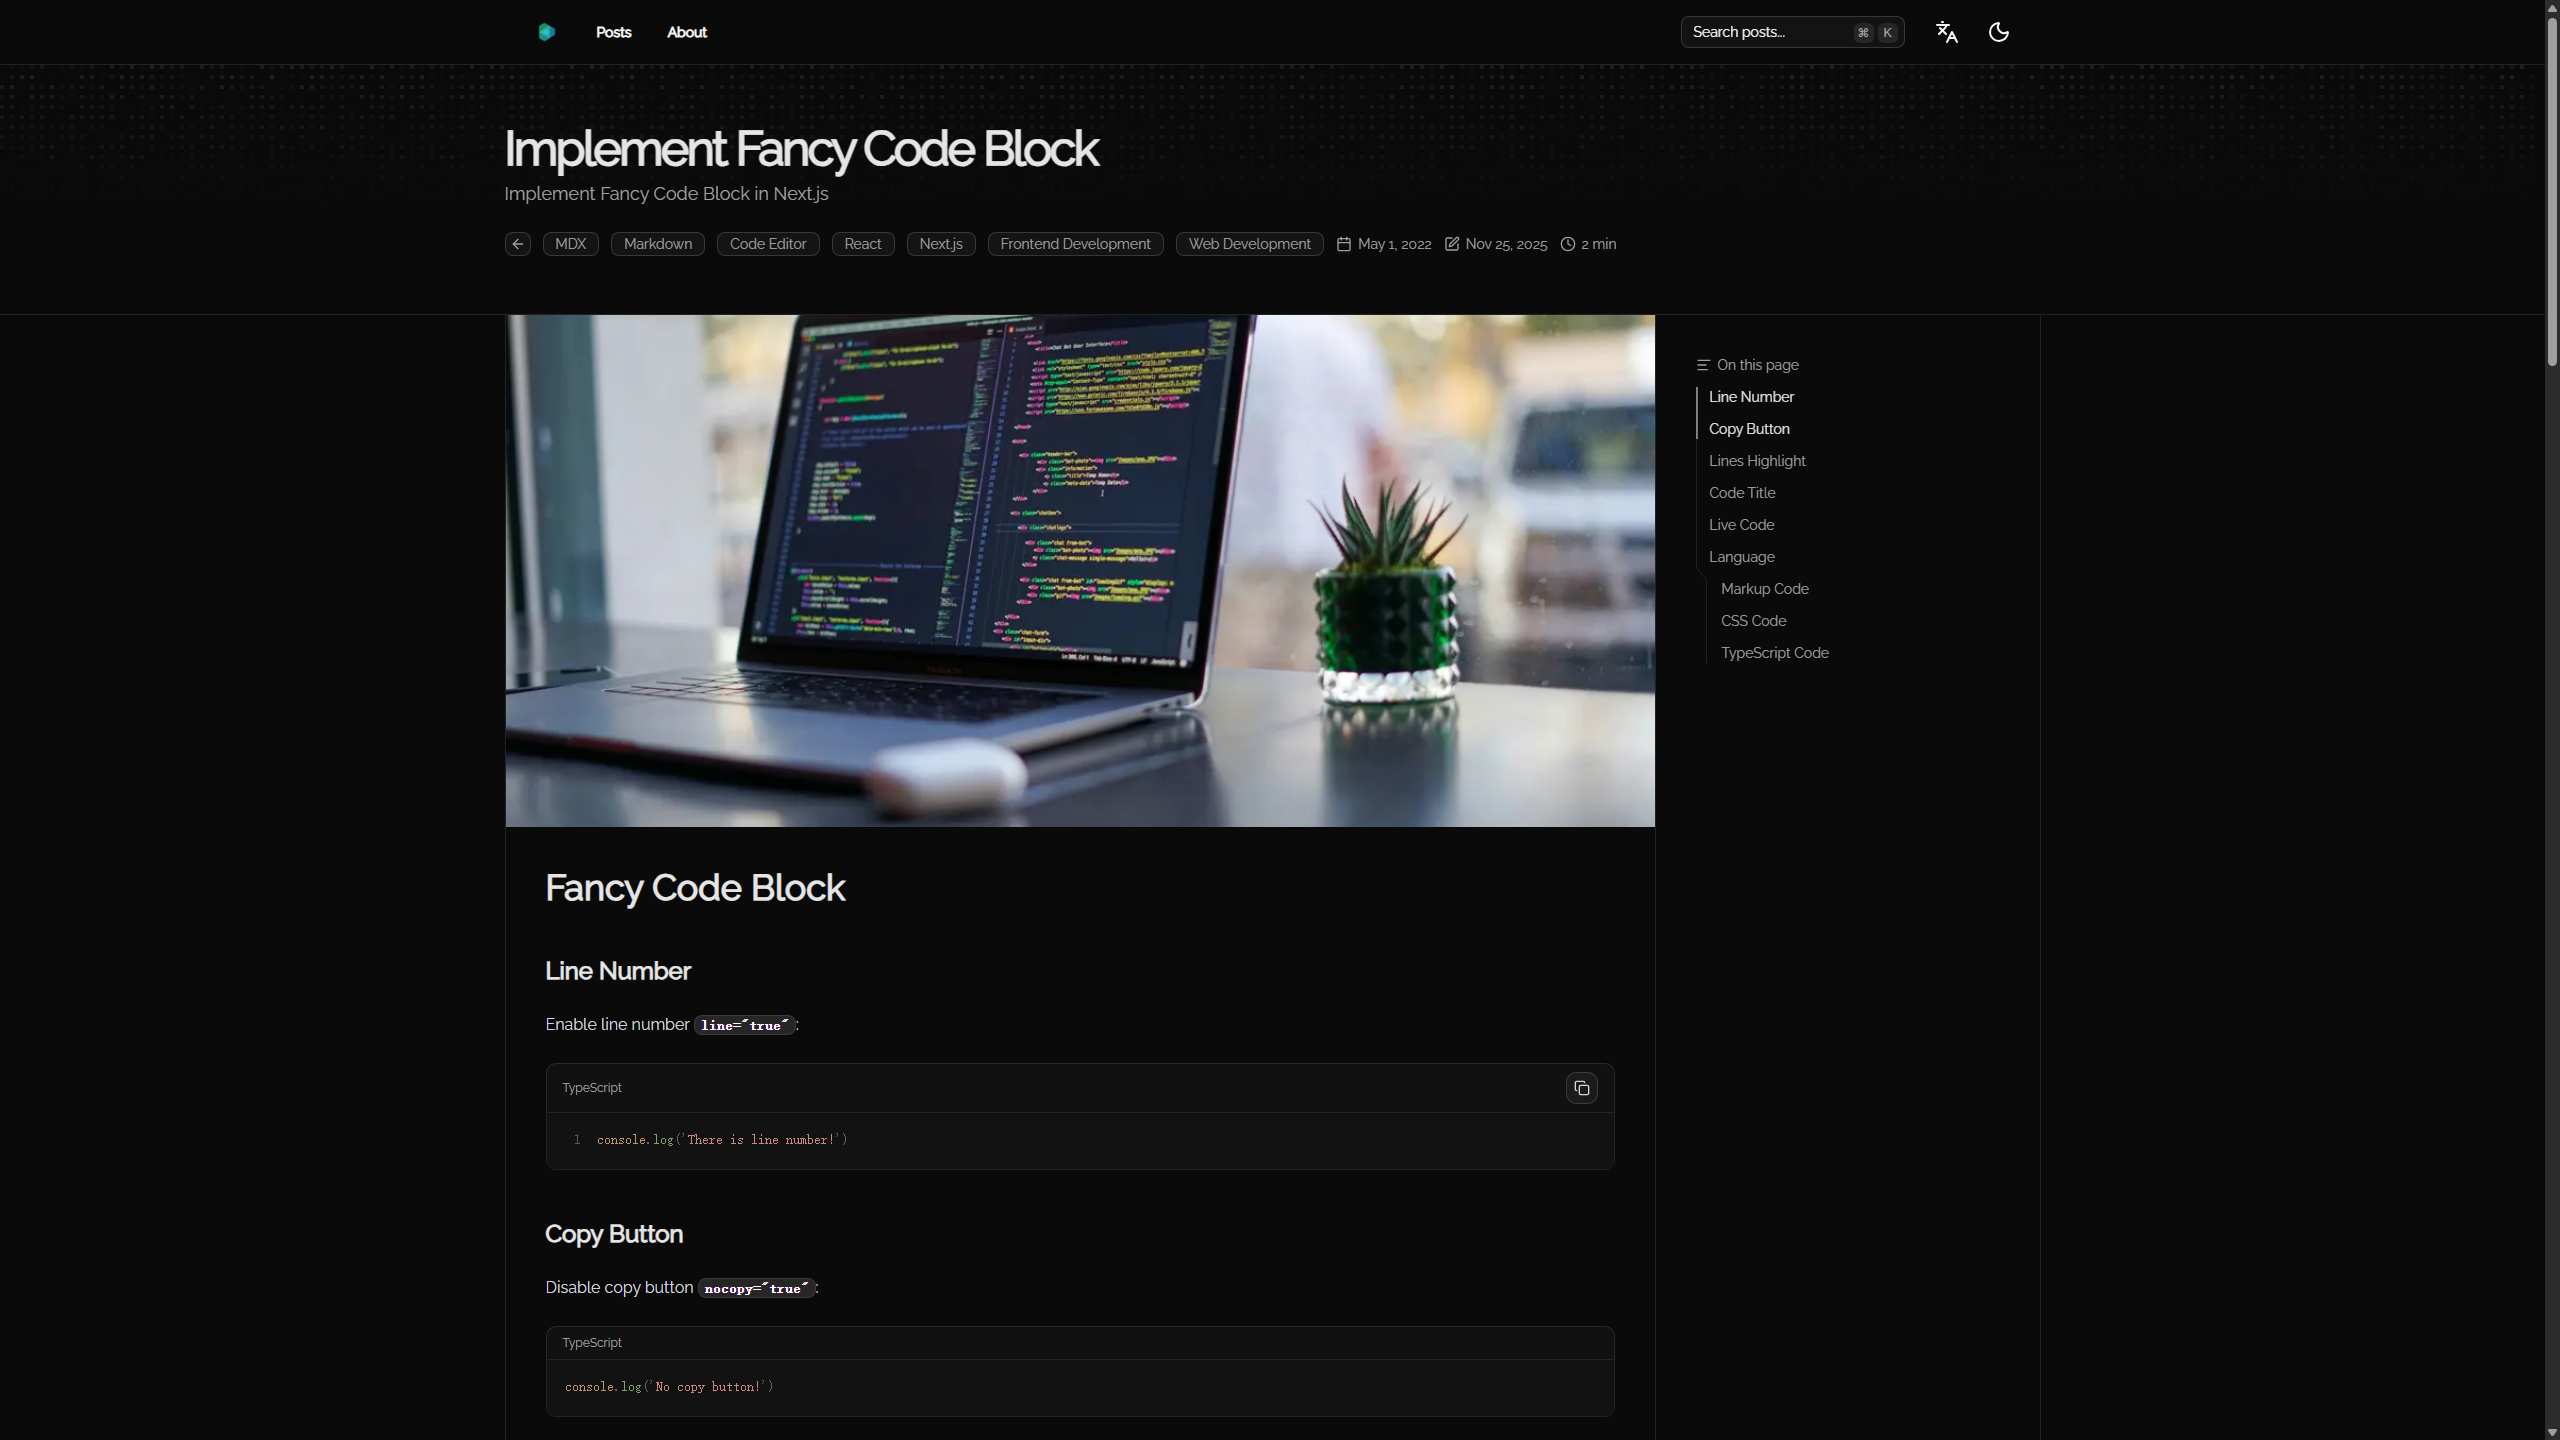
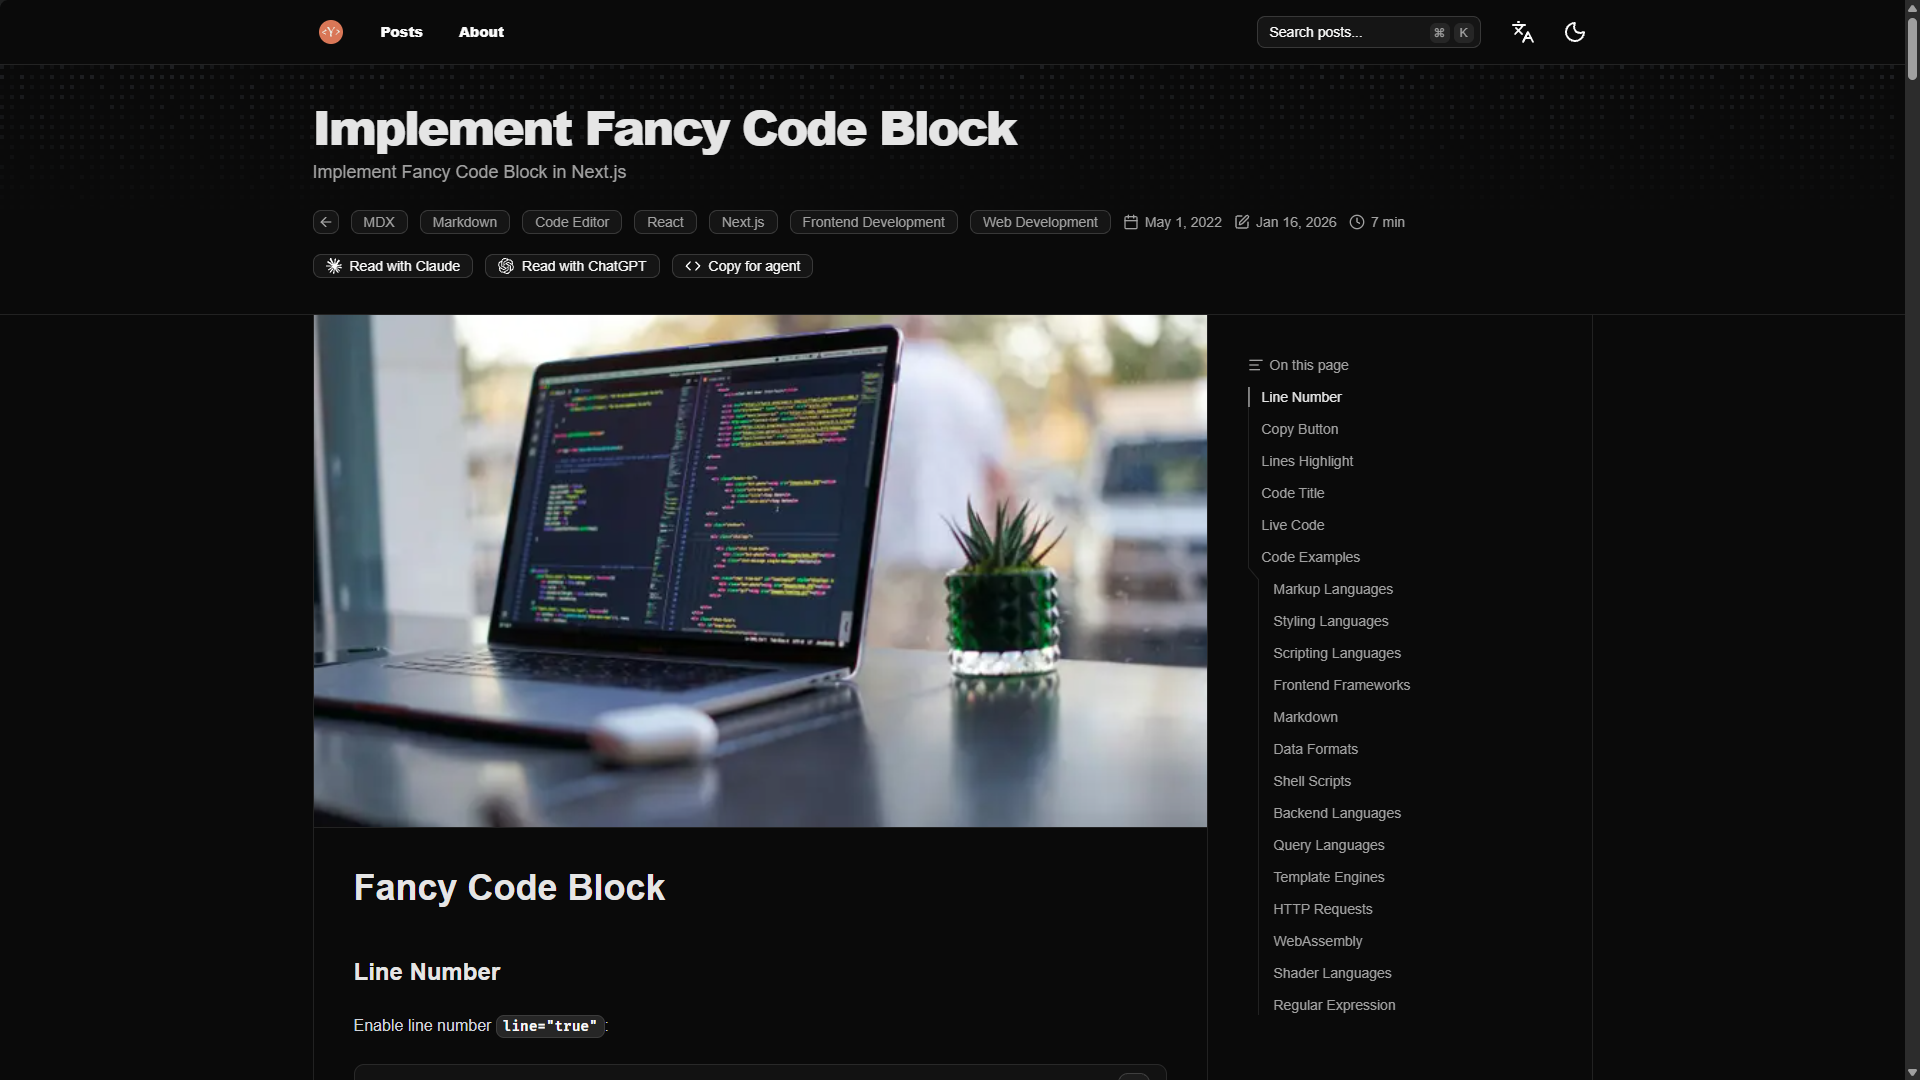
docs(readme): update screenshots for custom theme

diff --git a/README.md b/README.md
@@ -10,11 +10,11 @@
 
 An awesome [blog](https://blog.tazimi.dev) system based on Next.js.
 
-|                  Default                  |                             Nature                             |
+|                  Default                  |                             Custom                             |
 | :---------------------------------------: | :------------------------------------------------------------: |
-| ![Home](./.github/images/home.gif 'Home') | ![Home Nature](./.github/images/home-nature.gif 'Home Nature') |
-|  ![MDX](./.github/images/mdx.png 'MDX')   |  ![MDX Nature](./.github/images/mdx-nature.png 'MDX Nature')   |
-| ![Code](./.github/images/code.png 'Code') | ![Code Nature](./.github/images/code-nature.png 'Code Nature') |
+| ![Home](./.github/images/home.gif 'Home') | ![Home Custom](./.github/images/home-custom.gif 'Home Custom') |
+|  ![MDX](./.github/images/mdx.png 'MDX')   |  ![MDX Custom](./.github/images/mdx-custom.png 'MDX Custom')   |
+| ![Code](./.github/images/code.png 'Code') | ![Code Custom](./.github/images/code-custom.png 'Code Custom') |
 
 ## :sparkles: Features
 
